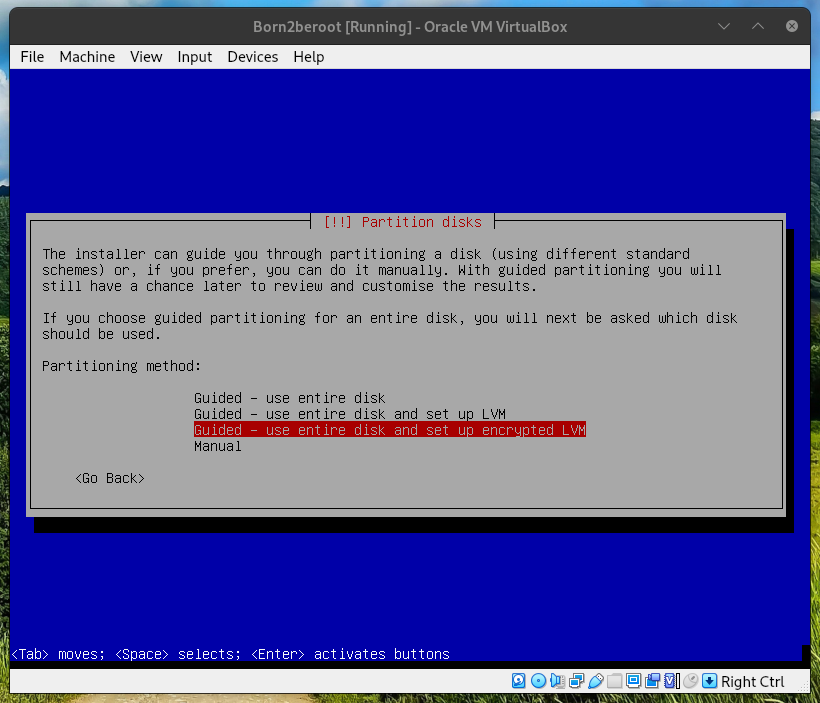
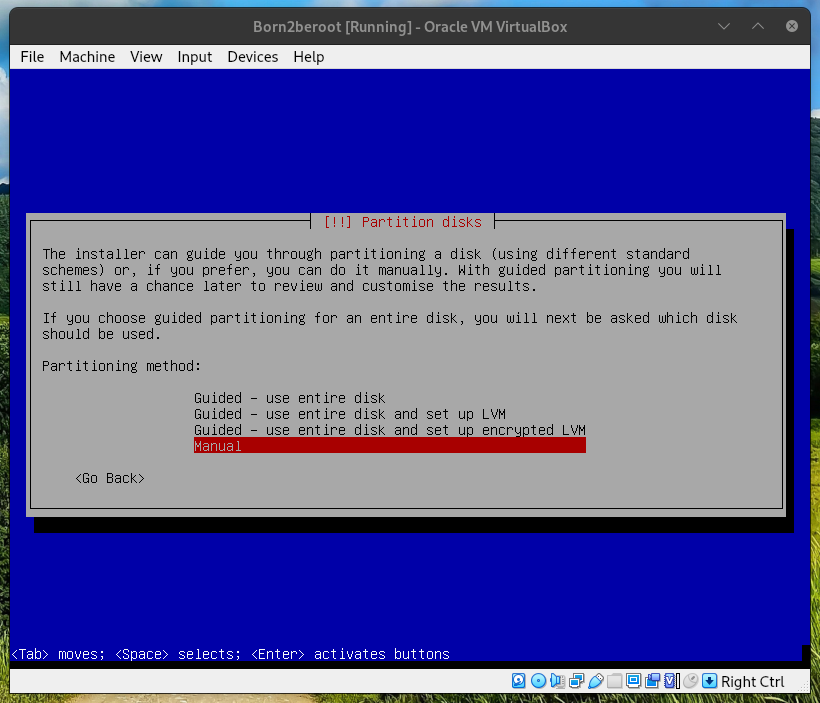
update

diff --git a/Born2beroot/Born2beroot.md b/Born2beroot/Born2beroot.md
@@ -8,7 +8,7 @@
 - [configure utilities](#configure-utilities)
 - [connect to ssh server](#connect-to-ssh-server)
 - [change password policy](#change-password-policy)
-- [create group and configure sudo](#create-group-and-configure-sudo)
+- [create group and configure sudo, change hostname](#create-group-and-configure-sudo-change-hostname)
 - [info](#info)
 - [credits](#credits)
 
@@ -83,7 +83,7 @@ VMDK allows incremental backups of changes to data from the time of the last bac
 
 <img src="../Misc/assets/Born2beroot/dynamic_alloc.png" alt="dynamic_alloc" width="760"/>
 
-*leave default*
+*choose 30.80GB for the bonus partitions*
 
 <img src="../Misc/assets/Born2beroot/file_location.png" alt="file_location" width="760"/>
 
@@ -150,7 +150,10 @@ you can find the debian image here
 
 *jump to [LVM](#lvm-🤷) to find out* 🕵♂
 
-*this will create partition with an encrypted higher partition in the disk containing the volume group*
+*you can select the third option here, it will set up the right partitions with a higher level encrypted file managed by lvm*
+*if you are doing the bonuses you should pick manual and create each partition exactly like the bonus part wants*
+*i will go into the parts that might prove challenging but i leave the rest to you*
+*so you will create the first partition, the boot partition like in the bonus*
 
 <img src="../Misc/assets/Born2beroot/partition_disk.png" alt="partition_disk" width="630"/>
 
@@ -178,37 +181,38 @@ you can find the debian image here
 
 -	**HARDDISK** self-explanatory
 
-<img src="../Misc/assets/Born2beroot/select_disk.png" alt="select_disk" width="630"/>
+*now all you have to do is create all the other partitions including the logical volumes, here are the specifics to be created in order*
 
-*select the last partition scheme, each logical volume will be explained later*
+-	sda1	8:1		0	500M	0	part	/boot
+	500M | primary | beginning | mount point /boot
+-	sda5	8:5		0	30.3	0	part
+	max | logical | beginning | no mount
+-	sda5_crypt	8:2		0	1K		0	part
+	configure encrypted volumes | yes | create encrypted volumes | sda5 | done | finish
+	then enter your encryption password
+-	LVMGroup-root	254:1	0	10G		0	lvm		/
+	configure the logical volume manager | yes | create logical volume | "LVMGroup" | sda5
+	create logical volume | LVMGroup | "root" | 10g
+-	LVMGroup-swap	254:2	0	2.3G	0	lvm		[SWAP]
+	create logical volume | LVMGroup | "swap" | 2.5g , when all LV done, use as: | swap area
+-	LVMGroup-home	254:3	0	5G		0	lvm		/home
+	create logical volume | LVMGroup | "home" | 5g , when all LV done, use as: | ext4 | mount point /home
+-	LVMGroup-var	254:4	0	3G		0	lvm		/var
+	create logical volume | LVMGroup | "var" | 3g , when all LV done, use as: | ext4 | mount point /var
+-	LVMGroup-srv	254:5	0	3G		0	lvm		/srv
+	create logical volume | LVMGroup | "srv" | 3g , when all LV done, use as: | ext4 | mount point /srv
+-	LVMGroup-tmp	254:6	0	3G		0	lvm		/tmp
+	create logical volume | LVMGroup | "tmp" | 3g , when all LV done, use as: | ext4 | mount point /tmp
+-	LVMGroup-var--log	254:7	0	4G		0	lvm		/var/log
+	create logical volume | LVMGroup | "var-log" | 4g , when all LV done, use as: | ext4 | mount point enter manually "/var/log"
+-	sda2	8:2		0	1K		0	part
+	this is the extended boot record it will be created automatically by grub
 
-<img src="../Misc/assets/Born2beroot/select_partition.png" alt="select_partition" width="630"/>
-
-*prepare to wait*
+*then prepare to wait*
 
 # ⏳
 
 <img src="../Misc/assets/Born2beroot/write.png" alt="write" width="630"/>
-
-*there is a minimum of 8 characters for the encryption password*
-
-<img src="../Misc/assets/Born2beroot/enc_pass.png" alt="enc_pass" width="630"/>
-
-*set to max*
-
-<img src="../Misc/assets/Born2beroot/vg_size.png" alt="vg_size" width="630"/>
-
-*here you can see the lvm VG(Volume Group) named by the hostname-vg and every LV(Logical Volume) included*
-
-*below you can see the partition table(not MBR)*
-
--	**ext4/ext2/crypto** this is the type of file system, ext4 goes for extended file system fourth generation, so is ext2 and crypto means that it is encrypted
-
-<img src="../Misc/assets/Born2beroot/finish_write.png" alt="finish_write" width="630"/>
-
-*now's the waiting game*
-
-<img src="../Misc/assets/Born2beroot/accept_finish.png" alt="accept_finish" width="630"/>
 
 <img src="../Misc/assets/Born2beroot/scanning_media.png" alt="scanning_media" width="630"/>
 
@@ -433,7 +437,9 @@ then edit the parameter file
 
 	sudo nano /etc/pam.d/common-password
 
-find this rule 
+find this rule, this rule describes what the rule applies to (pam_unix.so), the obscure option enables complexity checks.
+
+sha512 enforces password encryption and decryption algorithm of the hash function.
 
 	password	[success=2 default=ignore]	pam_unix.so obscure sha512
 
@@ -443,7 +449,7 @@ add minlen=10
 
 then look for 
 
-	password requisite	pam_pwquality.so retry=3
+	password requisite		pam_pwquality.so retry=3
 
 and add the following
 
@@ -479,9 +485,9 @@ then reboot for the changes
 
 	sudo reboot
 
-## create group and configure sudo
+## create group and configure sudo, change hostname
 
-**create a user and assign to a group then configure sudo group**
+**create a user and assign to a group then configure sudo group and change hostname**
 
 - **1 user**
 
@@ -548,7 +554,7 @@ go to the sudoers file.
 
 and add the following lines to secure the path
 
-	Defaults	secure_paths="..."
+	Defaults	secure_path="..."
 	Defaults	passwd_tries=3
 
 secure paths is the path that the sudo command uses whenever it calls a command.
@@ -562,9 +568,49 @@ now add the new log file with the input output.
 	Defaults	logfile="/var/log/sudo/sudo.log"
 	Defaults	log_input,log_output
 
+now write this line to activate the TTY mode, tty is a command to provide the file name of the terminal connected to the standard input.
 
+it is a security measure.
 
+	Defaults	requiretty
 
+and finally this line to secure the paths though it might already be in there.
+
+	Defaults	secure_path="/usr/local/sbin:/usr/local/bin:/usr/sbin:/usr/bin:/sbin:/bin:/snap/bin"
+
+-	**3 hostname**
+
+it is good to know how to change the hostname during the defense, first let's check the hostname.
+
+	hostnamectl
+
+this gives you a lot of information not only of the hostname but of the whole machine.
+
+now change the hostname like this.
+
+	hostnamectl set-hostname new_hostname
+
+then change the /etc/hosts file by going to.
+
+	sudo nano /etc/hosts
+
+and your old hostname to the new one. 
+
+	127.0.0.1	localhost
+	127.0.0.1	djacobs42
+
+then reboot and check the changes.
+
+	sudo reboot
+	hostnamectl
+
+## Crontab script
+
+the last thing to do ommiting the bonuses.
+
+cron is a command line utility job scheduler which manages background tasks.
+
+you can use it in the script.
 
 
 
